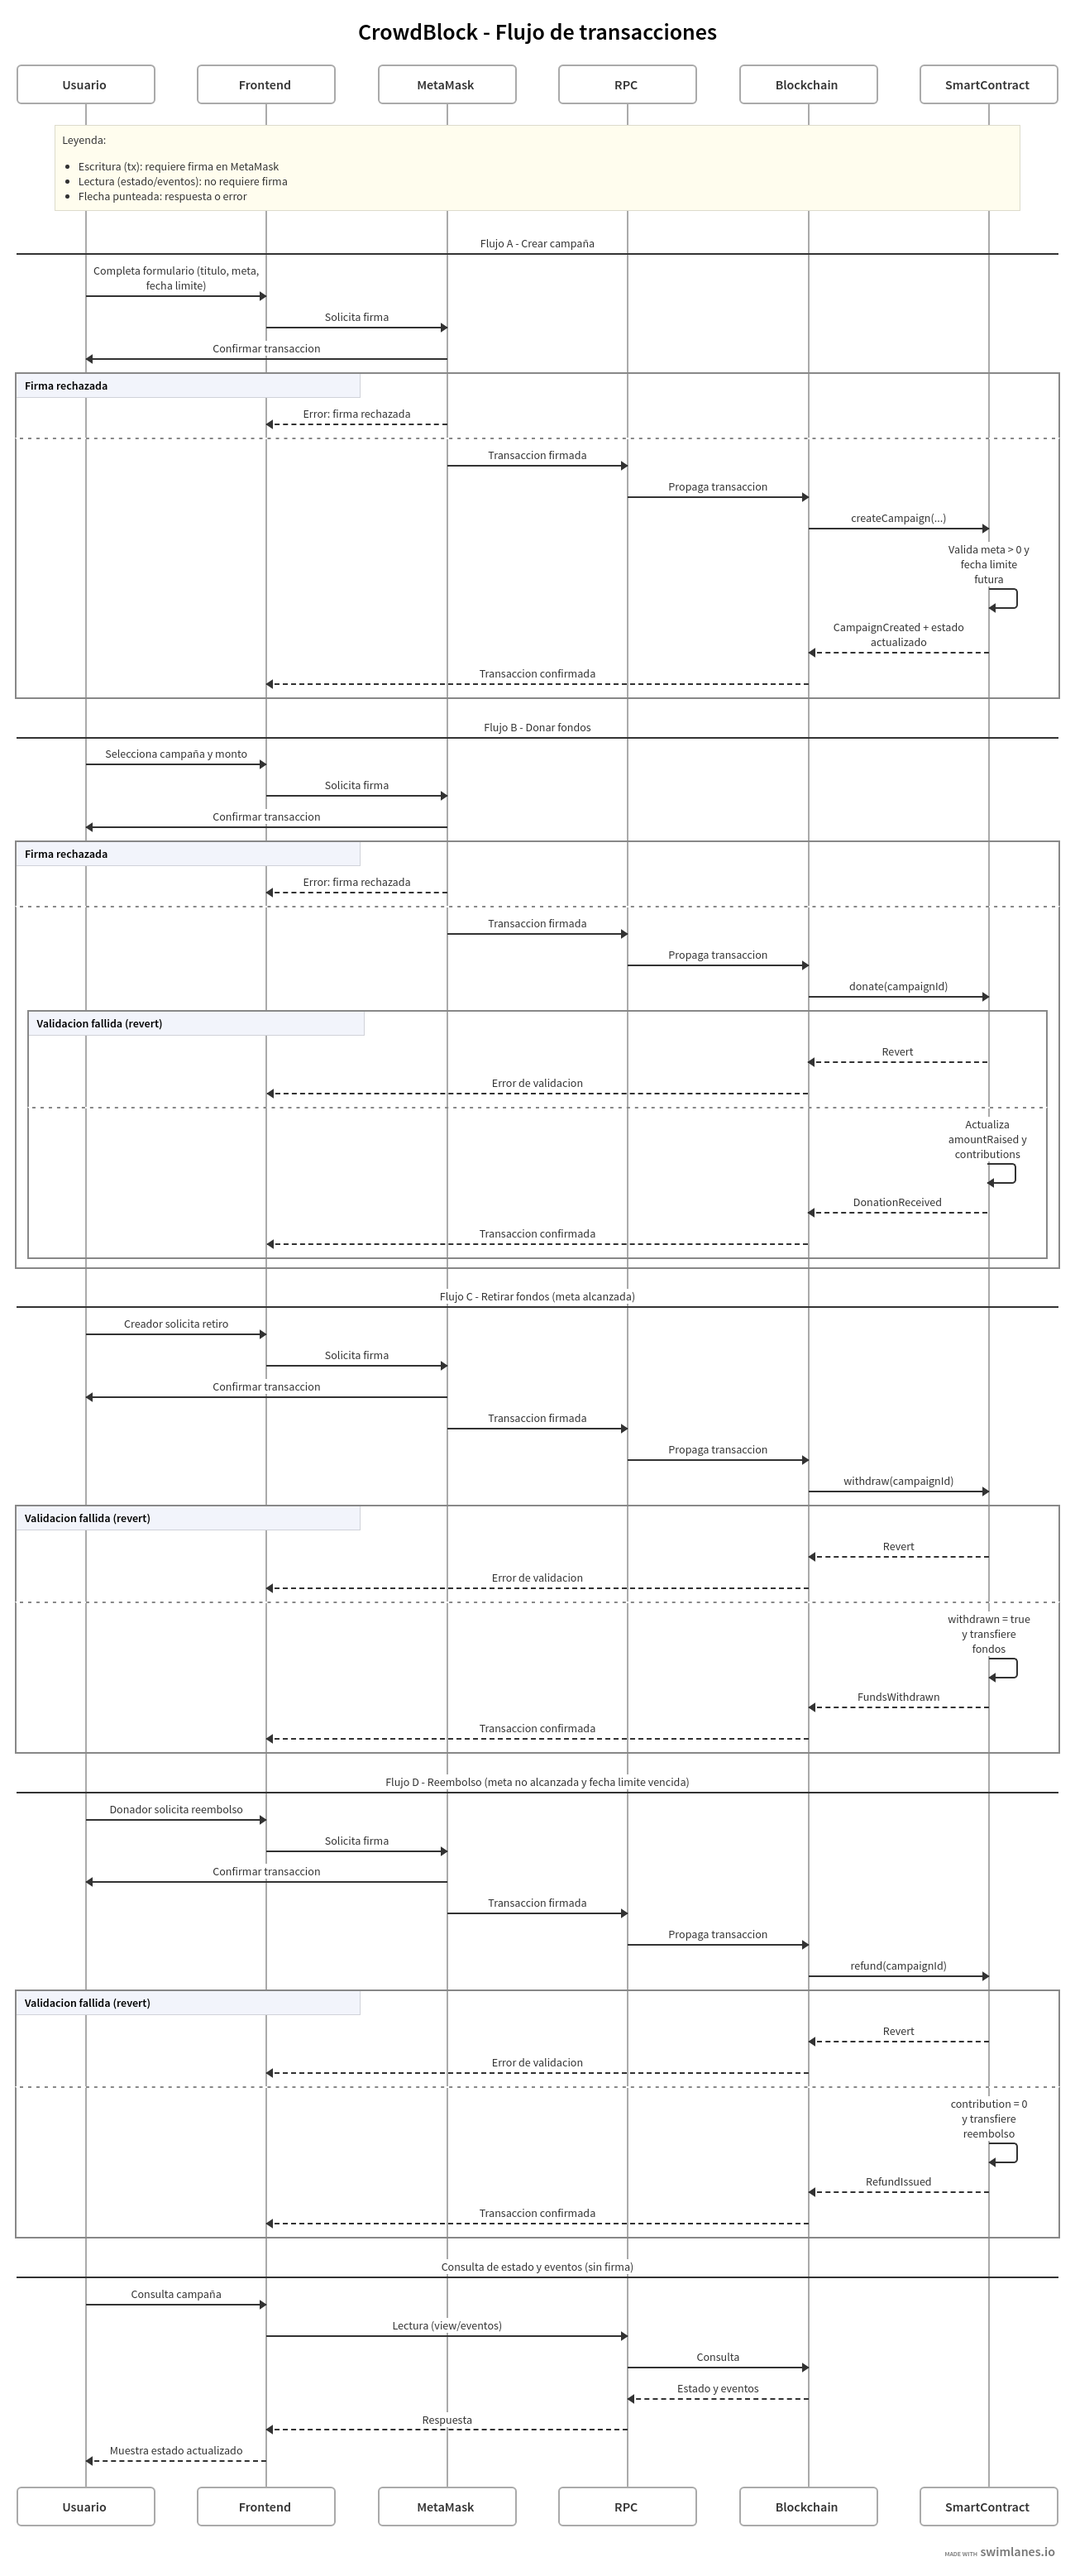
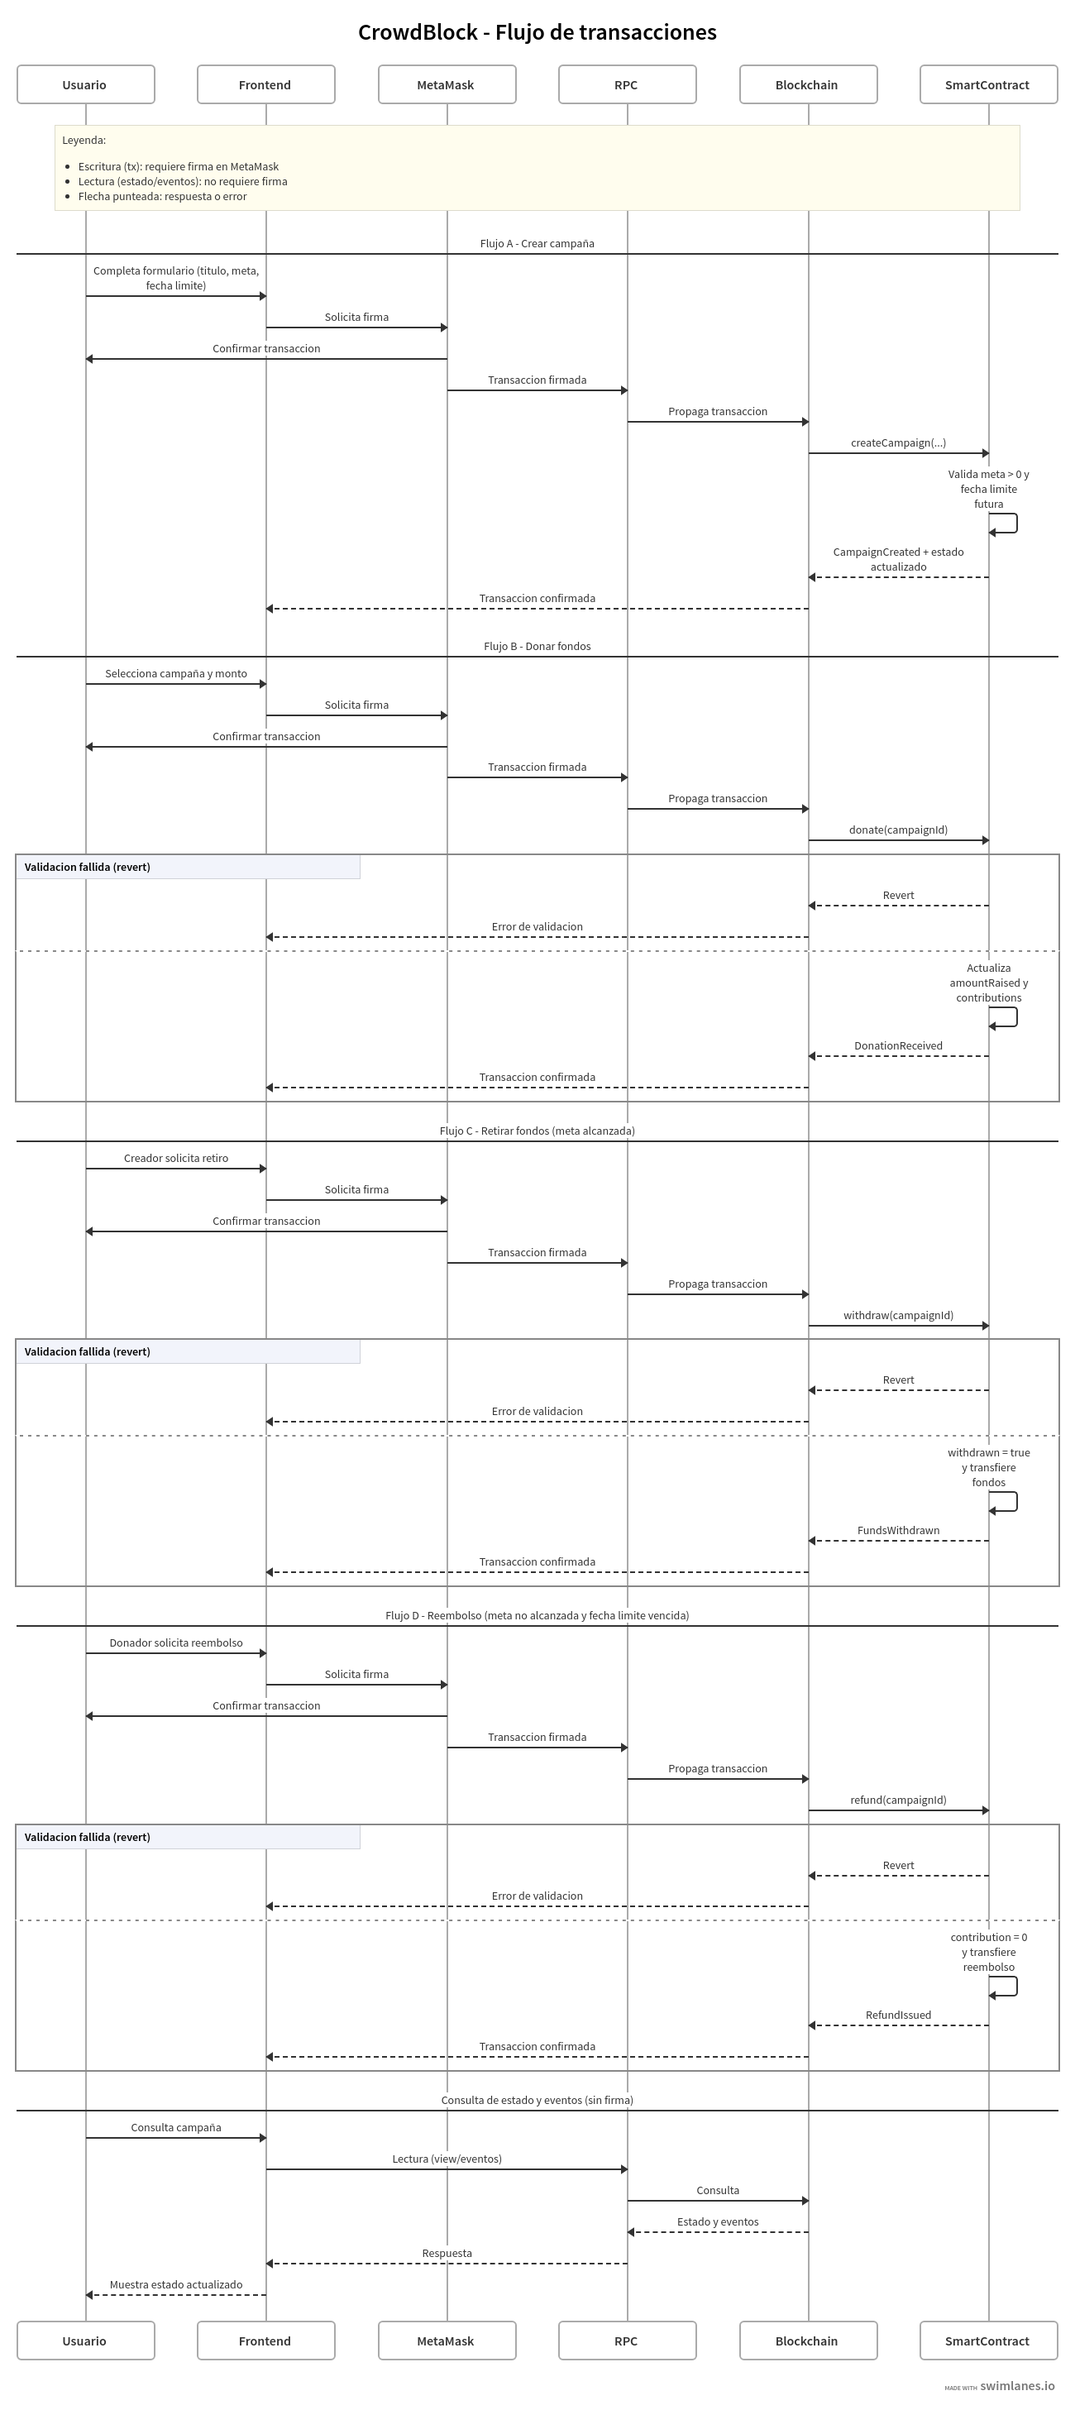
Solving some of kuronasec issues

diff --git a/README.md b/README.md
@@ -1,6 +1,6 @@
 # CrowdBlock
 
-Proyecto académico para el curso de Blockchain
+Plataforma descentralizada de crowdfunding para crear campañas, recibir aportes y ejecutar retiros/reembolsos con reglas transparentes en blockchain.
 
 ## 1. Descripción del sistema
 
@@ -13,17 +13,21 @@ El contrato aplica reglas automáticas:
 - La persona creadora puede retirar fondos solo si la campaña alcanzó la meta y no se retiró antes.
 - Si la campaña finaliza sin alcanzar la meta, cada donante puede solicitar el reembolso de su aporte.
 
-El objetivo es demostrar transparencia, trazabilidad e inmutabilidad en el proceso de recaudación por medio de la tecnología blockchain, sin intermediarios ni custodia de fondos por parte de terceros a diferencia de plataformas conocidas como IndieGogo o Kickstarter.
+El objetivo es ofrecer una alternativa de financiamiento colectivo para usuarios reales, con transparencia, trazabilidad e inmutabilidad, sin intermediarios que custodien los fondos (a diferencia de plataformas tradicionales).
+
+Para simplificar la primera versión, los aportes pueden manejarse en **POL (token nativo de Polygon)** y dejar como extensión futura el soporte de tokens **ERC-20**.
 
 ## 2. Arquitectura de la solución
 
 ![Diagrama de arquitectura de la DApp CrowdBlock](docs/img/crowdBlockArchitecture.png)
 
 La arquitectura de CrowdBlock se basa en un modelo de DApp por capas, donde el usuario interactúa desde el navegador con un frontend web que actúa como cliente de la aplicación. Para operaciones de
-escritura en blockchain, el frontend solicita la firma de la transacción en MetaMask, y una vez aprobada, esta se envía mediante un proveedor RPC hacia la red EVM (Hardhat en desarrollo local o
-Polygon Amoy para su despliegue de prueba), donde el smart contract ejecuta las reglas de negocio y actualiza el estado on-chain. Para operaciones de lectura, el frontend consulta estado y eventos directamente por RPC
-sin requerir firma. Esta separación entre lectura y escritura mejora la claridad del flujo, mantiene la seguridad en la custodia de claves y permite desplegar el frontend como aplicación estática en
-infraestructura de nube sin comprometer la lógica crítica, que permanece en el contrato inteligente.
+escritura en blockchain, el frontend solicita la firma de la transacción en MetaMask y luego la envía por RPC hacia la red EVM, donde el smart contract ejecuta las reglas de negocio y actualiza el estado on-chain.
+Para operaciones de lectura, el frontend consulta estado y eventos directamente por RPC sin requerir firma. Esta separación entre lectura y escritura mejora la claridad del flujo, mantiene la seguridad en la
+custodia de claves y permite desplegar el frontend como aplicación estática sin mover la lógica crítica fuera del contrato inteligente.
+
+En desarrollo local con Hardhat, el RPC es local (por ejemplo `http://127.0.0.1:8545`) y no requiere Infura.  
+En Amoy (testnet), puede usarse un proveedor RPC público o servicios como Infura/Alchemy.
 
 ### Capas
 - **Frontend Web (DApp):** interfaz de usuario para crear campañas, donar, retirar y pedir reembolso.
@@ -36,15 +40,14 @@ infraestructura de nube sin comprometer la lógica crítica, que permanece en el
 ![Diagrama de flujo de transacciones de CrowdBlock](docs/img/transactionDiagram.png)
 
 El diagrama de flujo de transacciones de CrowdBlock representa, en carriles separados, la interacción entre Usuario, Frontend, MetaMask, RPC, Blockchain y Smart Contract. Se detallan los cuatro
-flujos principales del sistema: creación de campaña, donación, retiro de fondos por meta alcanzada y reembolso por meta no cumplida. En cada flujo se observa el camino de éxito (firma, propagación,
-ejecución y confirmación on-chain) y el camino de error cuando la firma es rechazada o una validación del contrato falla (revert). Además, se incluye el flujo de lectura de estado y eventos, el cual
-no requiere firma del wallet.
+flujos principales del sistema: creación de campaña, donación, retiro de fondos por meta alcanzada y reembolso por meta no cumplida. El énfasis está en el camino funcional principal y en las
+validaciones de permisos y estado del contrato (por ejemplo, quién puede retirar fondos y en qué condiciones). Además, se incluye el flujo de lectura de estado y eventos, el cual no requiere firma del wallet.
 
 ### Flujo A: Crear campaña
 1. La persona creadora completa formulario (`title`, `goal`, `deadline`).
 2. MetaMask firma la transacción.
 3. El contrato ejecuta una función para crear una campaña `createCampaign()`.
-4. Se valida que `goal > 0` y `deadline` sea futura.
+4. Se valida que `goal > 0`, `deadline` sea futura y que el creador registrado sea `msg.sender`.
 5. Se registra la campaña y se emite evento `CampaignCreated`.
 
 ### Flujo B: Donar fondos
@@ -73,7 +76,7 @@ no requiere firma del wallet.
 4. Se valida:
    - Fecha límite alcanzada.
    - `amountRaised < goal`.
-   - Donante tiene saldo aportado > 0.
+   - Donante (`msg.sender`) tiene saldo aportado > 0.
 5. Se pone su aporte en cero y se transfiere reembolso.
 6. Se emite evento `RefundIssued`.
 
@@ -118,7 +121,14 @@ Estructura base de campaña:
 Estructura de aportes:
 - `contributions[campaignId][donor] => amount`
 
-## 6. Estructura base del repositorio inicial
+## 6. Scripts de prueba funcional propuestos (.ts)
+
+- `scripts/testCreateCampaign.ts`: crea campaña y valida campos iniciales.
+- `scripts/testDonate.ts`: ejecuta donaciones y valida acumulado.
+- `scripts/testWithdraw.ts`: valida retiro exitoso y fallos por permisos/estado.
+- `scripts/testRefund.ts`: valida reembolso cuando no se alcanza meta y vence plazo.
+
+## 7. Estructura base del repositorio inicial
 
 ```txt
 CrowdBlock/
